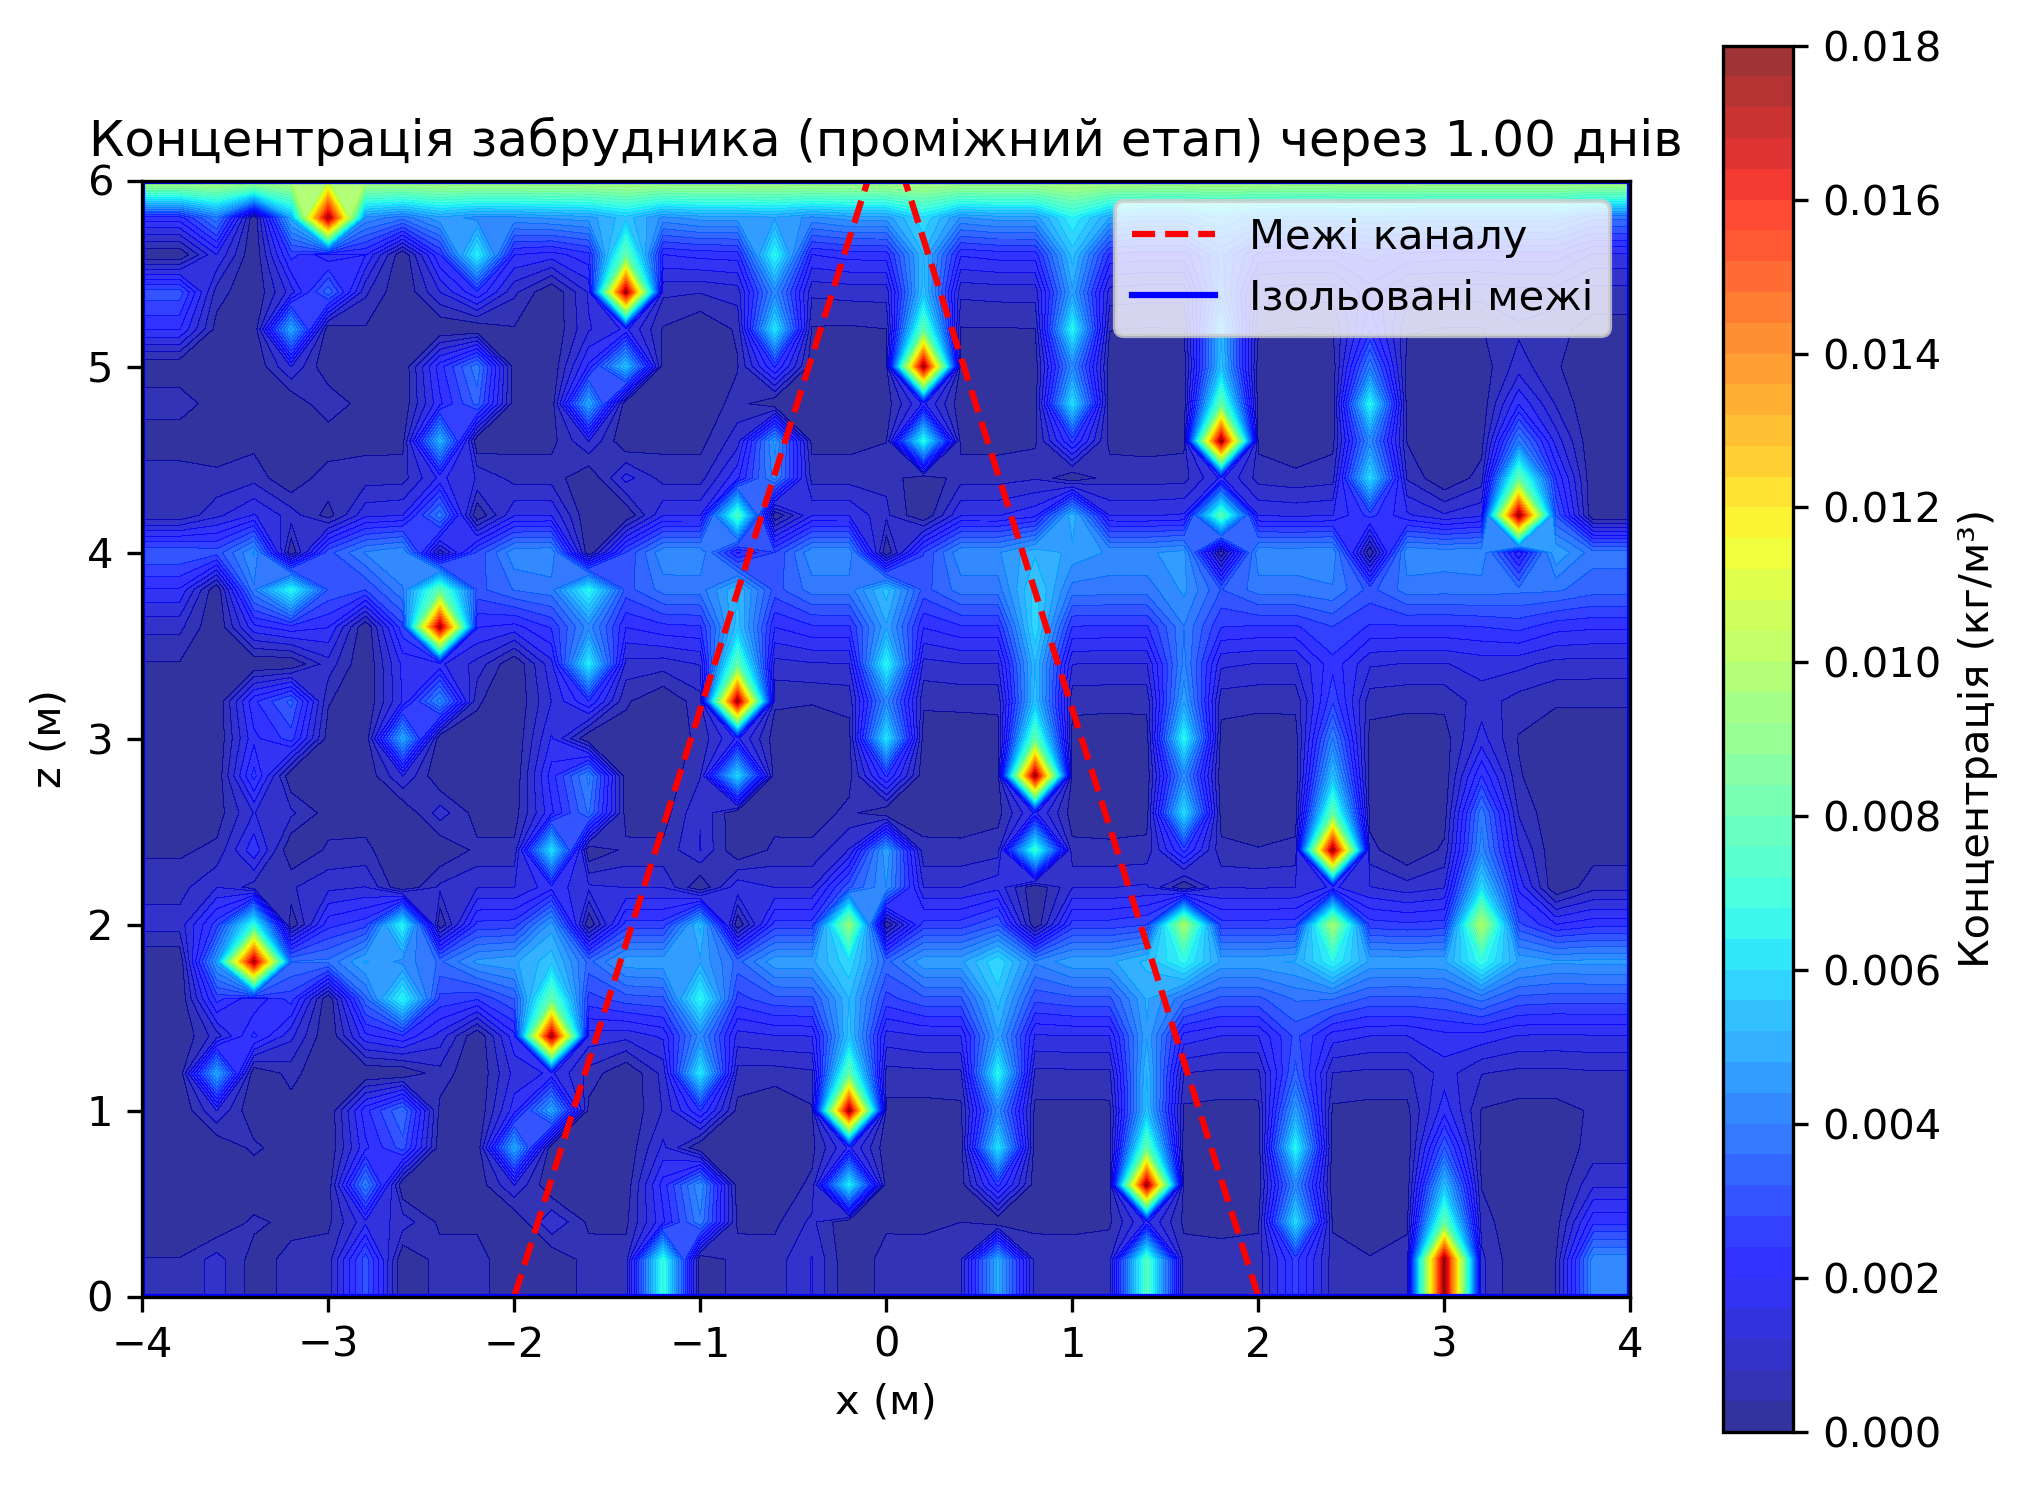
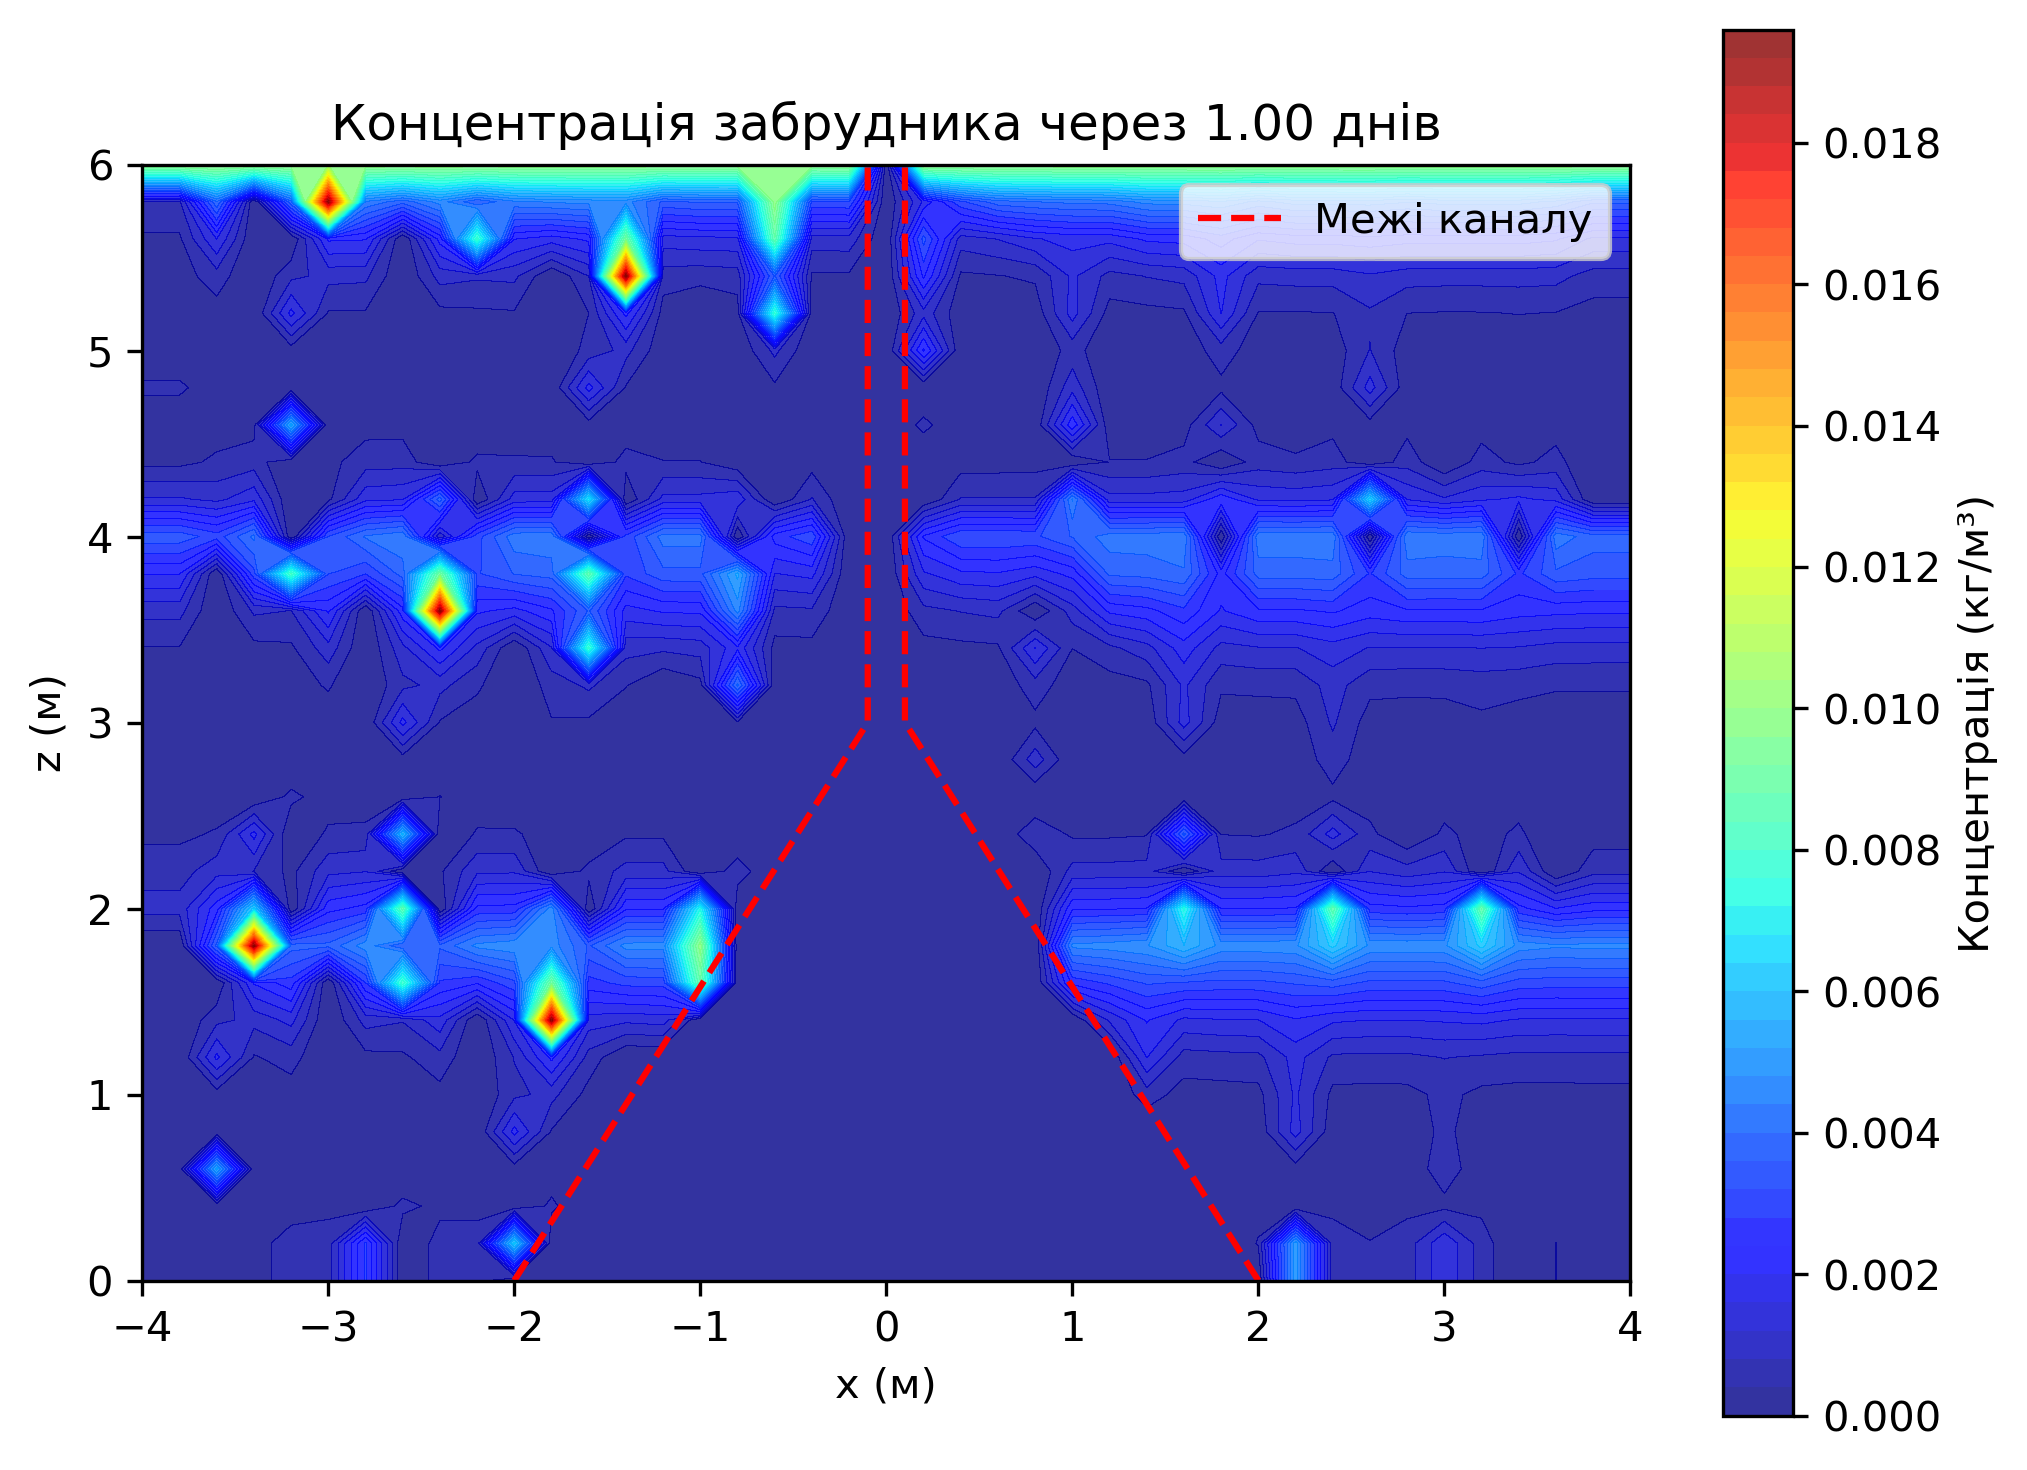
швидше працююча прога за методом Кранка-Ніколсона. \n все ще рандомні спалахи, але точно не в каналі й конусі. \n хуйня

diff --git a/main.py b/main.py
@@ -6,9 +6,11 @@ import os
 from scipy.sparse import diags, lil_matrix
 from scipy.sparse.linalg import spsolve
 
+
 # Створюємо папку для збереження результатів
 if not os.path.exists("results"):
     os.makedirs("results")
+
 
 # Функція 1: Ініціалізація сітки
 def initialize_grid():
@@ -17,24 +19,29 @@ def initialize_grid():
     X, Z = np.meshgrid(x, z)
     return x, z, X, Z
 
+
 # Функція 2: Ініціалізація концентрації та швидкості
 def initialize_conditions(x, z):
-    channel_left = -0.1 - (2 - 0.1) / 6 * (6 - z)
-    channel_right = 0.1 + (2 - 0.1) / 6 * (6 - z)
-    
+    channel_left = np.where(z >= 3, -0.1, -0.1 - (2 - 0.1) / 3 * (3 - z))
+    channel_right = np.where(z >= 3, 0.1, 0.1 + (2 - 0.1) / 3 * (3 - z))
+
     q = np.zeros((config.nx, config.nz))
     v_z = np.zeros((config.nx, config.nz))
-    
+
+    # Початкова концентрація тільки на поверхні (верхня межа)
+    q[:, -1] = config.q_top  
+
     for j in range(config.nz):
         z_val = z[j]
-        v_z_at_z = -0.02 + (0.02 - 0.001) / 6 * (6 - z_val)
         x_left = -0.1 - (2 - 0.1) / 6 * (6 - z_val)
         x_right = 0.1 + (2 - 0.1) / 6 * (6 - z_val)
         channel_indices = np.where((x >= x_left) & (x <= x_right))[0]
+
         for i in channel_indices:
-            v_z[i, j] = v_z_at_z
-    
+            v_z[i, j] = config.v_z_channel + (0.02 - 0.001) / 6 * (6 - z_val)
+
     return q, v_z, channel_left, channel_right
+
 
 # Функція 3: Побудова матриць для неявної схеми
 def build_matrices(q, v_z):
@@ -77,7 +84,7 @@ def build_matrices(q, v_z):
     return A, B
 
 # Функція 4: Оновлення концентрації (неявна схема)
-def update_concentration(q, v_z):
+def update_concentration(q, v_z, x, z, channel_left, channel_right):
     A, B = build_matrices(q, v_z)
     
     # Розгортаємо q у вектор
@@ -92,20 +99,42 @@ def update_concentration(q, v_z):
     # Перетворюємо назад у матрицю
     q_new = q_new_flat.reshape((config.nx, config.nz))
     
-    # Обмеження значень
-    q_new = np.where(q_new < 0, 0, q_new)
-    q_new = np.where(q_new > 1e3, 1e3, q_new)
+    # Обмеження значень поза каналом
+    channel_mask = get_channel_mask(x, z, channel_left, channel_right)
+    q_new = np.where(~channel_mask, np.clip(q_new, 0, 1e3), 0.0)  # В каналі - 0
     
     return q_new
 
+
+# Додаємо нову функцію для визначення маски каналу
+def get_channel_mask(x, z, channel_left, channel_right):
+    """Повертає маску, де True - точки, що належать каналу."""
+    mask = np.zeros((len(x), len(z)), dtype=bool)
+    for j in range(len(z)):
+        x_left = channel_left[j]
+        x_right = channel_right[j]
+        mask[:, j] = (x >= x_left) & (x <= x_right)
+    return mask
+
+
 # Функція 5: Застосування граничних умов
-def apply_boundary_conditions(q):
+def apply_boundary_conditions(q, x, z, channel_left, channel_right):
     q_new = q.copy()
-    q_new[:, -1] = config.q_top  # Верхня межа
+    
+    # Визначаємо маску каналу
+    channel_mask = get_channel_mask(x, z, channel_left, channel_right)
+    
+    # Граничні умови для всієї області
+    q_new[:, -1] = config.q_top  # Верхня межа (поверхня)
     q_new[:, 0] = q_new[:, 1]    # Нижня межа: ∂q/∂z = 0
     q_new[0, :] = q_new[1, :]    # Ліва межа: ∂q/∂x = 0
     q_new[-1, :] = q_new[-2, :]  # Права межа: ∂q/∂x = 0
+    
+    # Обнуляємо концентрацію в каналі (або фіксуємо на малому рівні)
+    q_new[channel_mask] = 0.0  # Або config.q_top, якщо потрібна мала концентрація
+    
     return q_new
+
 
 # Функція 6: Перевірка умов зупинки
 def check_stopping_condition(q, time):
@@ -120,32 +149,26 @@ def check_stopping_condition(q, time):
         print(f"Час: {time / (3600 * 24):.2f} днів, Мінімальна концентрація: {min_q:.4f} кг/м³")
     return False
 
+
 # Функція 7: Візуалізація з межами областей і збереженням
 def visualize_results_with_grid(X, Z, q, time, channel_left, channel_right, z, title="Концентрація забрудника"):
     plt.figure(figsize=(8, 6))
     plt.contourf(X.T, Z.T, q, levels=50, cmap='jet', alpha=0.8)
     plt.colorbar(label='Концентрація (кг/м³)')
-    
-    # Позначення меж каналу (конус)
-    plt.plot(channel_left, z, color='red', linestyle='--', linewidth=1.5, label='Межі каналу')
-    plt.plot(channel_right, z, color='red', linestyle='--', linewidth=1.5)
-    
-    # Позначення ізольованих меж
-    plt.axvline(x=-4, color='blue', linestyle='-', linewidth=1.5, label='Ізольовані межі')
-    plt.axvline(x=4, color='blue', linestyle='-', linewidth=1.5)
-    plt.axhline(y=0, color='blue', linestyle='-', linewidth=1.5)
-    plt.axhline(y=6, color='blue', linestyle='-', linewidth=1.5)
-    
+
+    # Межі каналу
+    plt.plot(channel_left, z, 'r--', linewidth=1.5, label='Межі каналу')
+    plt.plot(channel_right, z, 'r--', linewidth=1.5)
+
     plt.title(f'{title} через {time / (3600 * 24):.2f} днів')
     plt.xlabel('x (м)')
     plt.ylabel('z (м)')
     plt.legend()
     plt.gca().set_aspect('equal', adjustable='box')
-    
-    filename = f"results/concentration_{time / (3600 * 24):.2f}_days.png"
-    plt.savefig(filename, dpi=300, bbox_inches='tight')
-    print(f"Зображення збережено як {filename}")
+
+    plt.savefig(f"results/concentration_{time / (3600 * 24):.2f}_days.png", dpi=300, bbox_inches='tight')
     plt.show()
+
 
 # Основна функція моделювання
 def run_simulation():
@@ -158,14 +181,14 @@ def run_simulation():
     time = 0
     
     while time < config.max_time:
-        q_new = update_concentration(q, v_z)
-        q_new = apply_boundary_conditions(q_new)
+        q_new = update_concentration(q, v_z, x, z, channel_left, channel_right)
+        q_new = apply_boundary_conditions(q_new, x, z, channel_left, channel_right)
         q = q_new
         time += config.dt
         
         for snapshot_time in snapshot_times:
             if not snapshots_taken[snapshot_time] and abs(time - snapshot_time) < config.dt:
-                visualize_results_with_grid(X, Z, q, time, channel_left, channel_right, z, title="Концентрація забрудника (проміжний етап)")
+                visualize_results_with_grid(X, Z, q, time, channel_left, channel_right, z)
                 snapshots_taken[snapshot_time] = True
         
         if check_stopping_condition(q, time):

diff --git a/config.py b/config.py
@@ -3,7 +3,7 @@ nx = 41
 nz = 31
 dx = 0.2
 dz = 0.2
-dt = 100.0
+dt = 50.0
 max_time = 1e7
 D = 1e-6
 v_z_channel = -0.02

diff --git a/todo.md b/todo.md
@@ -11,6 +11,4 @@
 
 
 todo:
-* шоб візуалізація зберігалась також в зображенні тут в проекті
-* щоб візуалізація містила межі областей, можна було їх побачити
 * щоб результати хоч наближено співпадали з grok (~185 днів)
